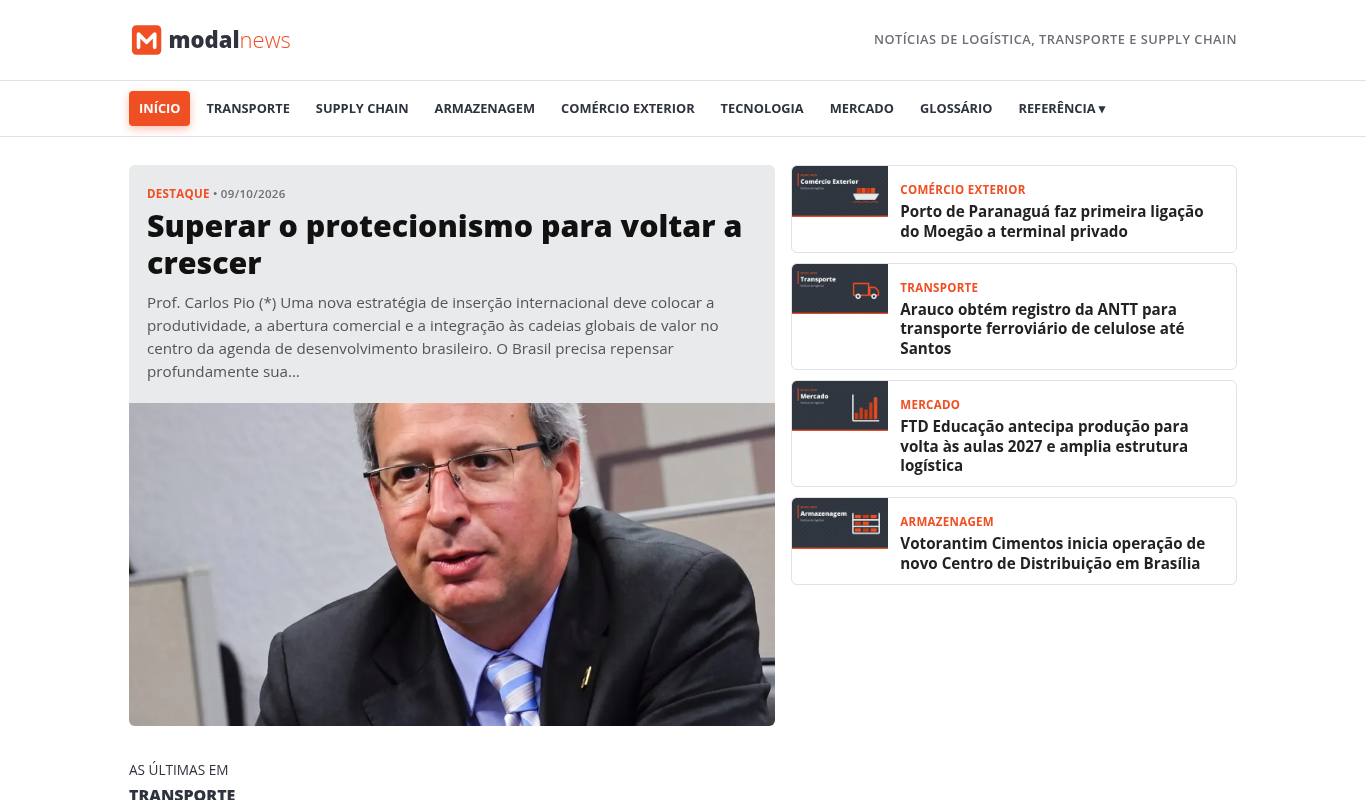
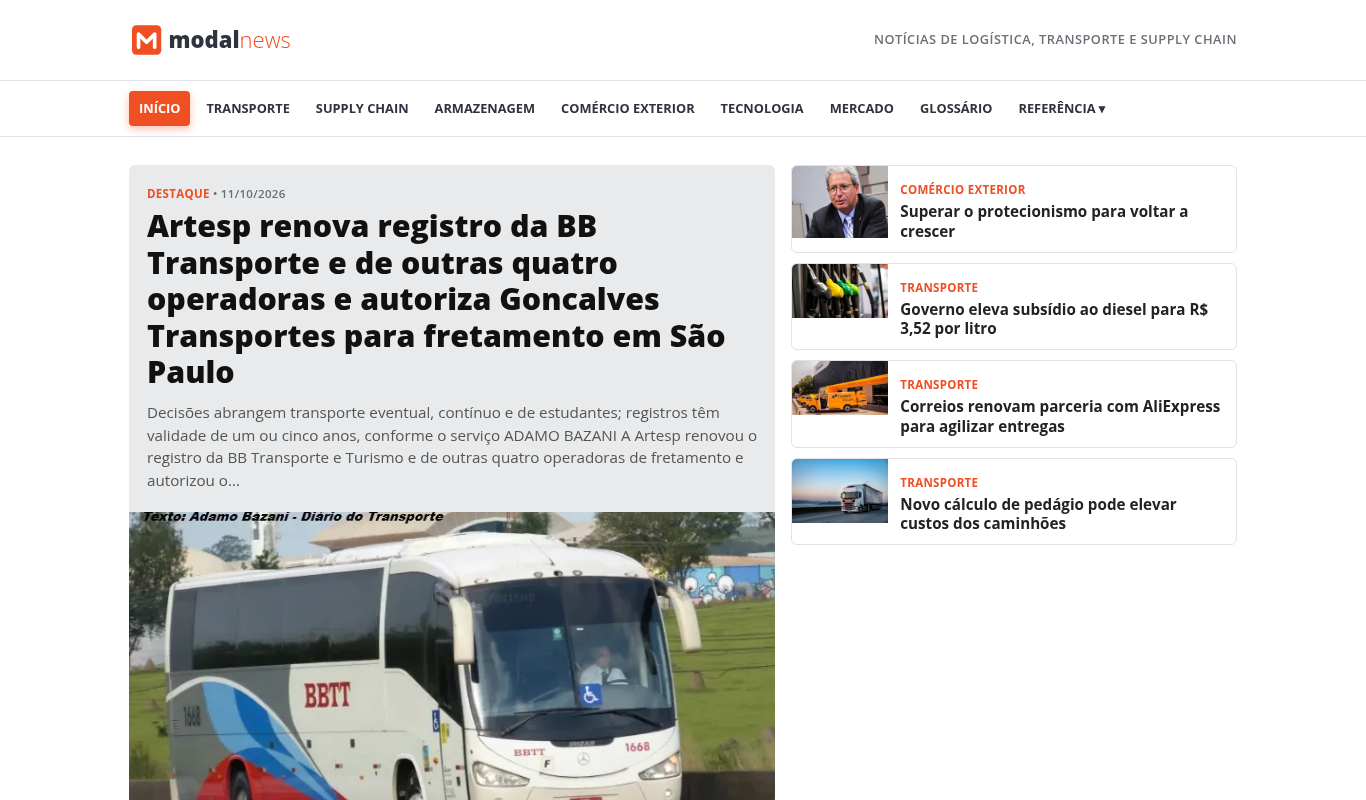
Cache-busting do CSS, redirecionamento das notícias removidas

Changed region(s): [[0.0922, 0.1875, 0.8917, 1.0]]

diff --git a/build.py b/build.py
@@ -38,6 +38,9 @@ def load():
 
 def fmt(d): return d.strftime("%d/%m/%Y %H:%M")
 
+import hashlib
+CSSV = hashlib.md5((ROOT / "static" / "style.css").read_bytes()).hexdigest()[:10]
+
 def page(title, desc, path, body, og_img=None, og_type="website", jsonld=None, robots=None):
     canon = BASE + path
     img = og_img or BASE + "/static/og-default.png"
@@ -51,7 +54,7 @@ def page(title, desc, path, body, og_img=None, og_type="website", jsonld=None, r
     return f"""<!doctype html><html lang="pt-BR"><head><meta charset="utf-8">
 <meta name="viewport" content="width=device-width,initial-scale=1">
 <title>{E(title)}</title>{rb}<meta name="description" content="{E(desc)}">
-<link rel="canonical" href="{canon}"><link rel="stylesheet" href="/static/style.css">
+<link rel="canonical" href="{canon}"><link rel="stylesheet" href="/static/style.css?v={CSSV}">
 <link rel="alternate" type="application/rss+xml" title="{E(CFG['site_name'])}" href="/rss.xml">
 <meta property="og:site_name" content="{E(CFG['site_name'])}"><meta property="og:locale" content="pt_BR">
 <meta property="og:type" content="{og_type}"><meta property="og:title" content="{E(title)}">
@@ -154,6 +157,11 @@ def main():
 <figure class="cover">{img(p, "cover", "(max-width: 800px) 100vw, 760px", True)}{f'<figcaption>Imagem: {E(p["imagem_credito"])}</figcaption>' if p.get("imagem_credito") else ''}</figure>{p['html']}</article>"""
         write(p["url"], page(f"{p['titulo']} — {CFG['site_name']}", p.get("resumo", ""), p["url"], b,
                              BASE + p["imagem"], "article", ld, robots="noindex,follow" if p.get("gerado_por") else None))
+    rd = yaml.safe_load((ROOT / "data" / "redirects.yaml").read_text()) if (ROOT / "data" / "redirects.yaml").exists() else {}
+    live = {p["url"] for p in posts}
+    for old, new in rd.items():
+        if old in live: continue
+        write(old, f'<!doctype html><html lang="pt-BR"><head><meta charset="utf-8"><meta name="robots" content="noindex"><link rel="canonical" href="{BASE}{new}"><meta http-equiv="refresh" content="0; url={new}"><title>Página movida</title></head><body><p>Esta notícia foi removida. <a href="{new}">Ver a editoria</a>.</p></body></html>')
     import paginas, paginas2
     me = sys.modules[__name__]; me._posts = posts; me._interlink = interlink
     fm_urls, fm_lm = paginas2.frete_minimo(me); pt_urls, pt_lm = paginas2.portos(me)
